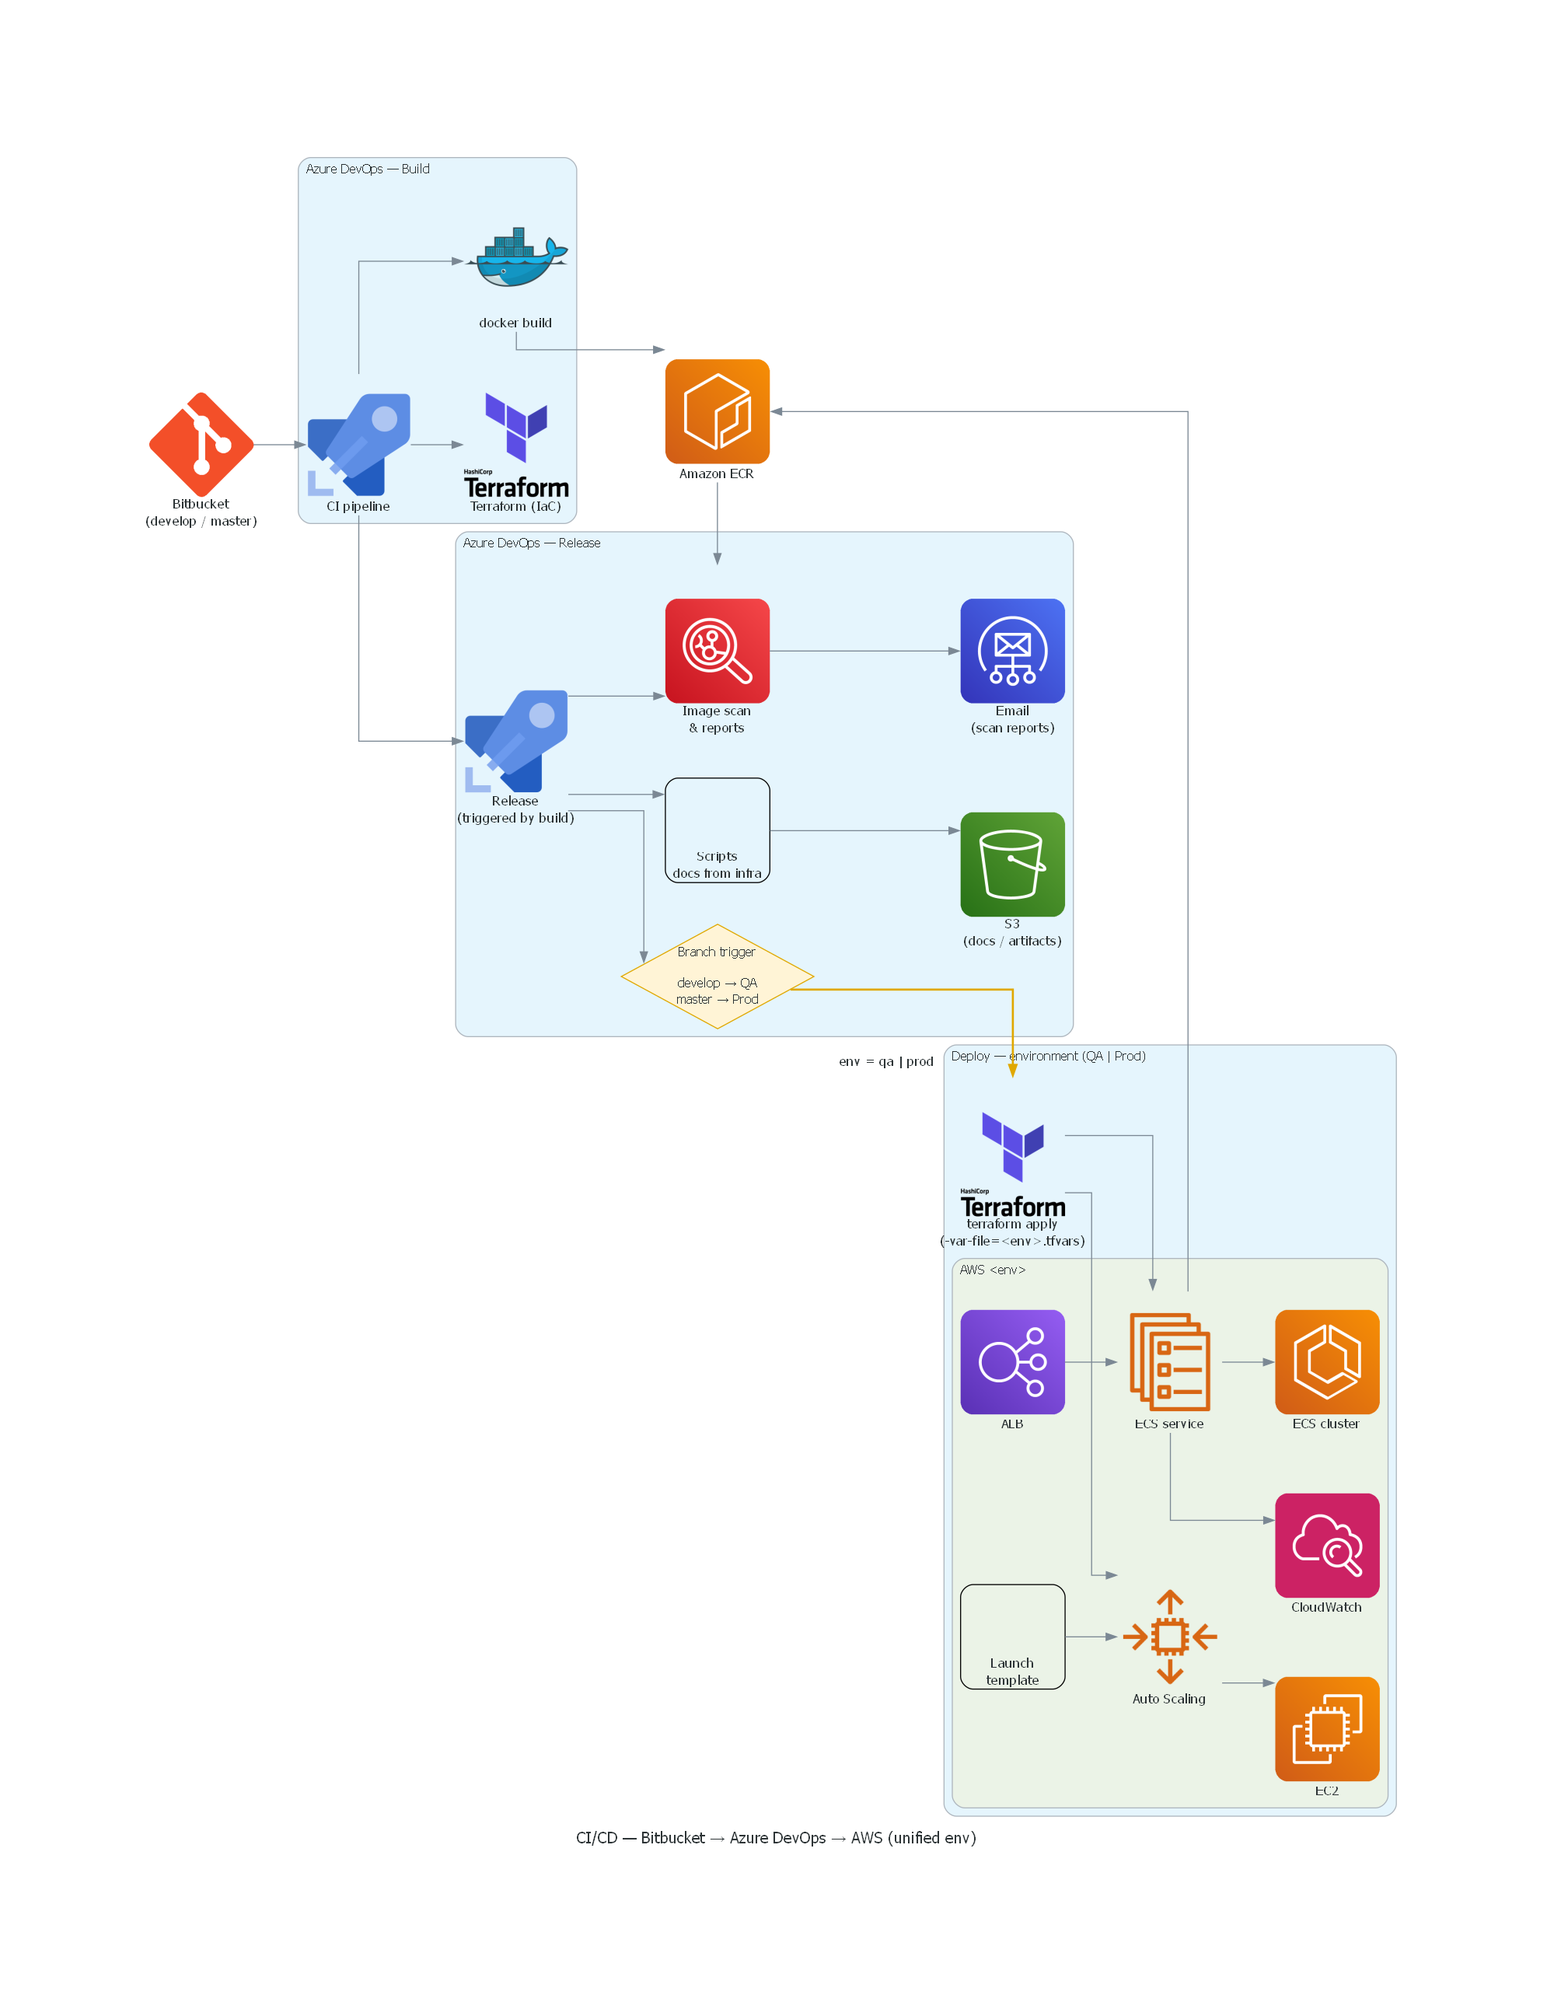
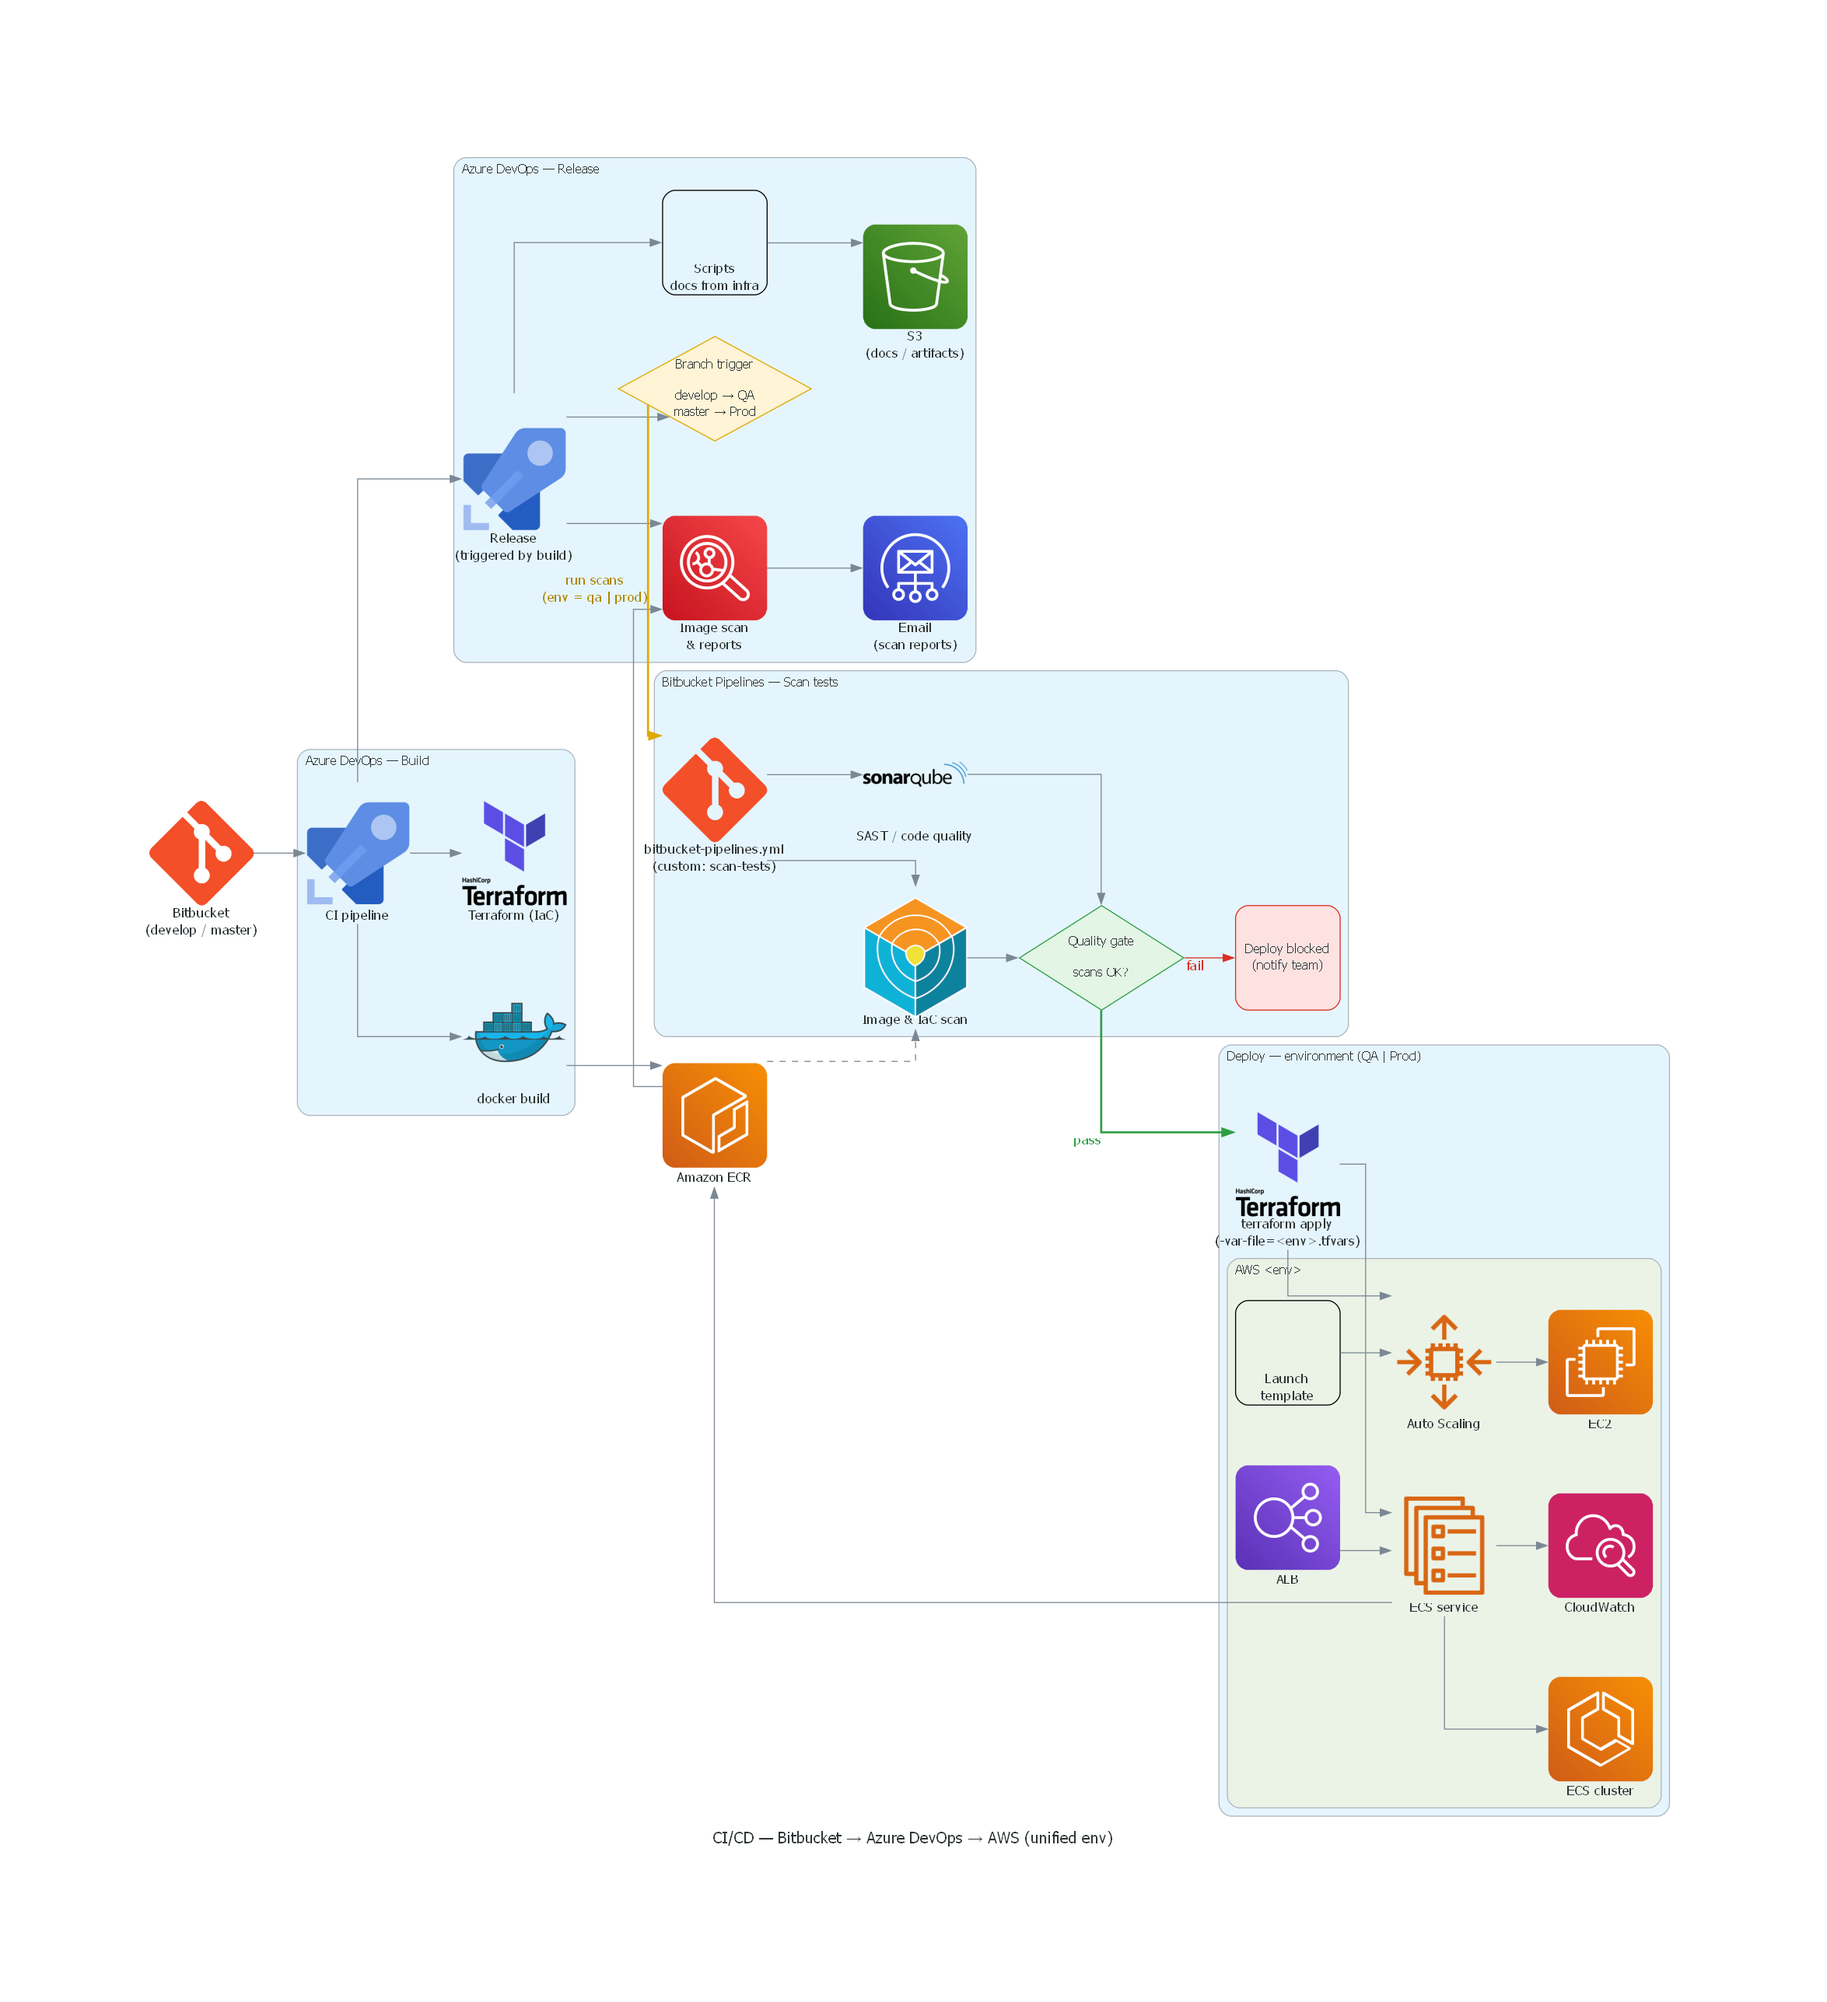
new diagram with bitbucket scan

Changed region(s): [[0.062, 0.0621, 0.9305, 0.932], [0.093, 0.1864, 0.1551, 0.2485], [0.4032, 0.901, 0.4342, 0.932]]

diff --git a/ci-cd/ci-cd-bitbucket-azure-aws-unified.py b/ci-cd/ci-cd-bitbucket-azure-aws-unified.py
@@ -10,6 +10,8 @@ from diagrams.aws.network import ELB
 from diagrams.aws.management import Cloudwatch
 from diagrams.aws.security import Inspector
 from diagrams.aws.engagement import SES
+from diagrams.onprem.security import Trivy
+from diagrams.saas.security import Sonarqube
 
 # Same pipeline as ci-cd-bitbucket-azure-aws.py, but QA and Prod are drawn as a single
 # environment: the branch only decides WHICH environment gets deployed, via a trigger.
@@ -63,6 +65,32 @@ with Diagram("CI/CD — Bitbucket → Azure DevOps → AWS (unified env)", filen
 
     bitbucket >> build >> release
 
+    # The trigger runs a Bitbucket pipeline with the scan tests; only if it passes
+    # does the flow continue to the deploy.
+    with Cluster("Bitbucket Pipelines — Scan tests"):
+        bb_pipeline = Git("bitbucket-pipelines.yml\n(custom: scan-tests)")
+        sast = Sonarqube("SAST / code quality")
+        image_scan = Trivy("Image & IaC scan")
+        gate = Node(
+            "Quality gate\n\nscans OK?",
+            **{**trigger_attrs, "fillcolor": "#E3F6E5", "color": "#2E9E44"},
+        )
+        blocked = Node(
+            "Deploy blocked\n(notify team)",
+            shape="box",
+            style="rounded,filled",
+            fillcolor="#FDE2E1",
+            color="#D93025",
+            fixedsize="false",
+            labelloc="c",
+            fontsize="12",
+        )
+
+        bb_pipeline >> sast >> gate
+        bb_pipeline >> image_scan >> gate
+        registry >> Edge(style="dashed") >> image_scan
+        gate >> Edge(xlabel="fail", fontcolor="#D93025", color="#D93025") >> blocked
+
     with Cluster("Deploy — environment (QA | Prod)"):
         env_tf = Terraform("terraform apply\n(-var-file=<env>.tfvars)")
         with Cluster("AWS <env>"):
@@ -82,4 +110,6 @@ with Diagram("CI/CD — Bitbucket → Azure DevOps → AWS (unified env)", filen
         env_tf >> ecs_svc
         env_tf >> asg
 
-    trigger >> Edge(label="env = qa | prod", style="bold", color="#E0A800") >> env_tf
+    # xlabel: with splines=ortho, regular edge labels drift away from their edge.
+    trigger >> Edge(xlabel="run scans\n(env = qa | prod)", fontcolor="#B08400", style="bold", color="#E0A800") >> bb_pipeline
+    gate >> Edge(xlabel="pass", fontcolor="#2E9E44", style="bold", color="#2E9E44") >> env_tf
